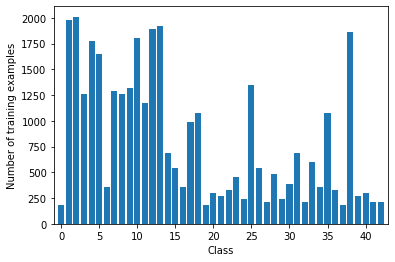
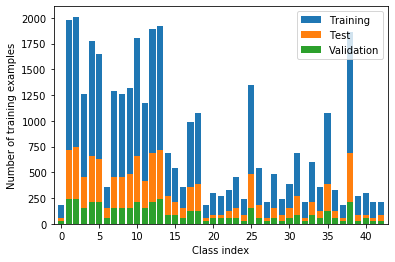
docs: Updated project report (#3)
* feat: Added LR selection option for training

* feat: Improved class distribution plot

Separated training, validation and testing stats

* style: Reordered imports

* docs: Updated readme

Added details for resubmission

* docs: Updated readme

Improved project report

* docs: Fixed README

Fixed image URL

Changed region(s): [[0.1215, 0.5496, 0.9722, 0.855], [0.7595, 0.0305, 0.9722, 0.2443], [0.4861, 0.916, 0.638, 0.9771]]

diff --git a/src/train.py b/src/train.py
@@ -9,10 +9,12 @@ import argparse
 from pathlib import Path
 import pickle
 import numpy as np
-from utils import convert_to_grayscale, normalize
-from models import lenet5
 import json
 import matplotlib.pyplot as plt
+from tensorflow.keras.optimizers import Adam
+
+from utils import convert_to_grayscale, normalize
+from models import lenet5
 
 
 def main(args):
@@ -43,11 +45,17 @@ def main(args):
     print('Number of classes:', class_counts.shape[0])
 
     # Class distribution
-    plt.bar(np.arange(class_counts.shape[0]), class_counts, align='center')
-    plt.xlabel('Class')
-    plt.ylabel('Number of training examples')
-    plt.xlim([-1, class_counts.shape[0]])
-    plt.show()
+    if args.distribution:
+        _, valid_count = np.unique(y_valid, return_counts=True)
+        _, test_count = np.unique(y_test, return_counts=True)
+        plt.bar(np.arange(43), class_counts, align='center', label='Training')
+        plt.bar(np.arange(43), test_count, align='center', label='Test')
+        plt.bar(np.arange(43), valid_count, align='center', label='Validation')
+        plt.xlabel('Class index')
+        plt.ylabel('Number of training examples')
+        plt.xlim([-1, 43])
+        plt.legend(loc="upper right")
+        plt.show()
 
     # Grayscale & unit values
     X_train = convert_to_grayscale(X_train)
@@ -67,7 +75,8 @@ def main(args):
     print(model.summary())
 
     # specify optimizer, loss function and metric
-    model.compile(optimizer='adam',
+    optimizer = Adam(lr=args.lr)
+    model.compile(optimizer=optimizer,
                   loss='sparse_categorical_crossentropy',
                   metrics=['accuracy'])
 
@@ -86,6 +95,9 @@ if __name__ == '__main__':
     parser.add_argument("epochs", type=int, help="Number of epochs to train")
     parser.add_argument("--folder", type=str, default='./data', help="Path to data folder")
     parser.add_argument("--batch-size", type=int, default=128, help="Batch size")
+    parser.add_argument("--lr", type=float, default=1e-3, help="Learning rate")
+    parser.add_argument("--distribution", dest='distribution', action='store_true',
+                        help="Should the class distribution be displayed")
 
     args = parser.parse_args()
     main(args)

diff --git a/README.md b/README.md
@@ -57,7 +57,9 @@ You can download the trained [model](https://github.com/frgfm/sdcnd-p3-traffic-s
 A training script is available to train an image classifier on the training dataset.
 
 ```
-usage: train.py [-h] [--folder FOLDER] [--batch-size BATCH_SIZE] epochs
+usage: train.py [-h] [--folder FOLDER] [--batch-size BATCH_SIZE] [--lr LR]
+                [--distribution]
+                epochs
 
 Traffic sign classification training
 
@@ -69,6 +71,9 @@ optional arguments:
   --folder FOLDER       Path to data folder (default: ./data)
   --batch-size BATCH_SIZE
                         Batch size (default: 128)
+  --lr LR               Learning rate (default: 0.001)
+  --distribution        Should the class distribution be displayed (default:
+                        False)
 ```
 
 
@@ -126,13 +131,16 @@ The dataset has 34799 training examples, 4410 validation examples and 12630 test
 
 ![class_distribution](static/images/class_distribution.png)
 
-The class distribution is imbalanced as shown below.
+The class distribution is imbalanced as shown above. The data preprocessing will include:
+
+- conversion to grayscale: to reduce the number of channels *(data dimensionality)*
+- normalization: feeding normalized data to the model even on new data distribution *(with the mean and standard deviation of the training set)*.
 
 
 
 ### Architecture
 
-As suggested by the default repository, the LeNet5 architecture was used for image classification.
+As suggested by the default repository, the [LeNet5](http://yann.lecun.com/exdb/publis/pdf/lecun-01a.pdf) architecture was used for image classification, as this architecture has already shown great results on small grayscale images (cf. [MNIST](http://yann.lecun.com/exdb/mnist/)), despite its small size.
 
 ![lenet5](<https://www.researchgate.net/profile/Vladimir_Golovko3/publication/313808170/figure/fig3/AS:552880910618630@1508828489678/Architecture-of-LeNet-5.png>)
 
@@ -140,7 +148,7 @@ As suggested by the default repository, the LeNet5 architecture was used for ima
 
 
 
-By introducing dropout in the fully connected layers, we get our final model:
+By implementing the architecture from the paper and introducing [dropout](http://jmlr.org/papers/volume15/srivastava14a/srivastava14a.pdf) in the fully connected layers, we get our final model:
 
 ```shell
 Model: "sequential"
@@ -174,15 +182,32 @@ Non-trainable params: 0
 
 ### Training sequence
 
-Using a flat learning rate over 10 epochs (cf. `train.py`), the training procedure yields very positive results with a final validation accuracy of 95.92%.
+The training sequence is handled by the `train.py` script as follows:
+
+- optimizer: [Adam](https://arxiv.org/abs/1412.6980) *(commonly used for image classification)*
+- batch size: 128 *(selected based on GPU RAM capacity)*
+- epochs: 10
+- learning rate scheduler: flat (constant)
+- learning rate: 1e-3
+- Dropout rate: 0.2 *(reduces overfitting without extending the number of epochs too much)*
+
+
+
+The training procedure yields very positive results with a final validation accuracy of 95.92%.
 
 ![training_monitoring](static/images/training_monitoring.png)
 
-The accuracy over the testing set reaches 92.52%, which shows a good generalization capacity of the model.
+The accuracy over the testing set reaches 92.52%, which shows a good generalization capacity of the model, without any apparent overfitting. The model parameters' values were saved [here](https://github.com/frgfm/sdcnd-p3-traffic-sign-classification/releases/download/v0.1.0/model.h5).
 
 
 
 ### Evaluation on new images
+
+Eight [images](https://github.com/frgfm/sdcnd-p3-traffic-sign-classification/releases/download/v0.1.0/test_images.zip) were selected on the Web for testing purposes *(their resized version is shown below)*:
+
+![all_samples](static/images/all_samples.png)
+
+The difference in resolution and size may have detrimental effects on the model performances for these images. Other visual deformations would also have an influence but the set was manually selected to avoid those.
 
 Using the `test.py` script, we can inspect the predictions of the trained model over the test images. Feel free to use your own.
 
@@ -194,7 +219,9 @@ Using the `test.py` script, we can inspect the predictions of the trained model 
 
 ![test_sample04](static/images/test_sample04.png)
 
-With this limited dataset, the aggregated accuracy of the model is 62.50%. A larger dataset would confirm potential ideas to improve the architecture and training procedure.
+![test_sample05](static/images/test_sample05.png)
+
+With this limited dataset, the aggregated accuracy of the model is 62.50%. The results for the first 5 samples of the dataset are shown above. A larger dataset would confirm potential ideas to improve the architecture and training procedure.
 
 
 
